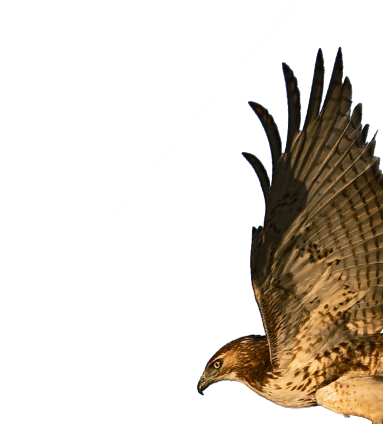
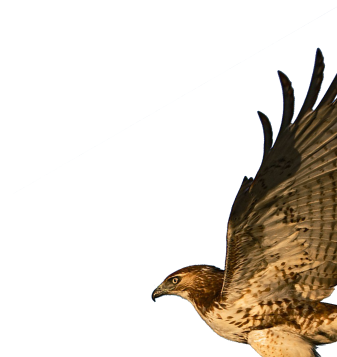
Update TimeOfTheDay component image size

Changed region(s): [[0.4451, 0.0924, 1.0, 1.0]]

diff --git a/src/components/templates/TimeOfTheDay.tsx b/src/components/templates/TimeOfTheDay.tsx
@@ -53,7 +53,7 @@ export const TimeOfTheDay: FC<TimeOfTheDayData & Username> = ({
         <div tw="flex flex-col p-1">
           <CardSubtitle text="They say I catch the what?" />
           <CardTitle text="Early~Bird" />
-          <CardSubText text="You prefer a 9-5 job" />
+          <CardSubText text="Morning coffee + code  = ❤" />
           <ProductiveTimes
             productiveHour={productiveHour}
             productiveDay={productiveDay}
@@ -61,7 +61,7 @@ export const TimeOfTheDay: FC<TimeOfTheDayData & Username> = ({
         </div>
         <img
           tw="absolute bottom-[-20px] right-[-20px]"
-          width={350}
+          width={300}
           src={dayHawk}
           alt=""
         />
